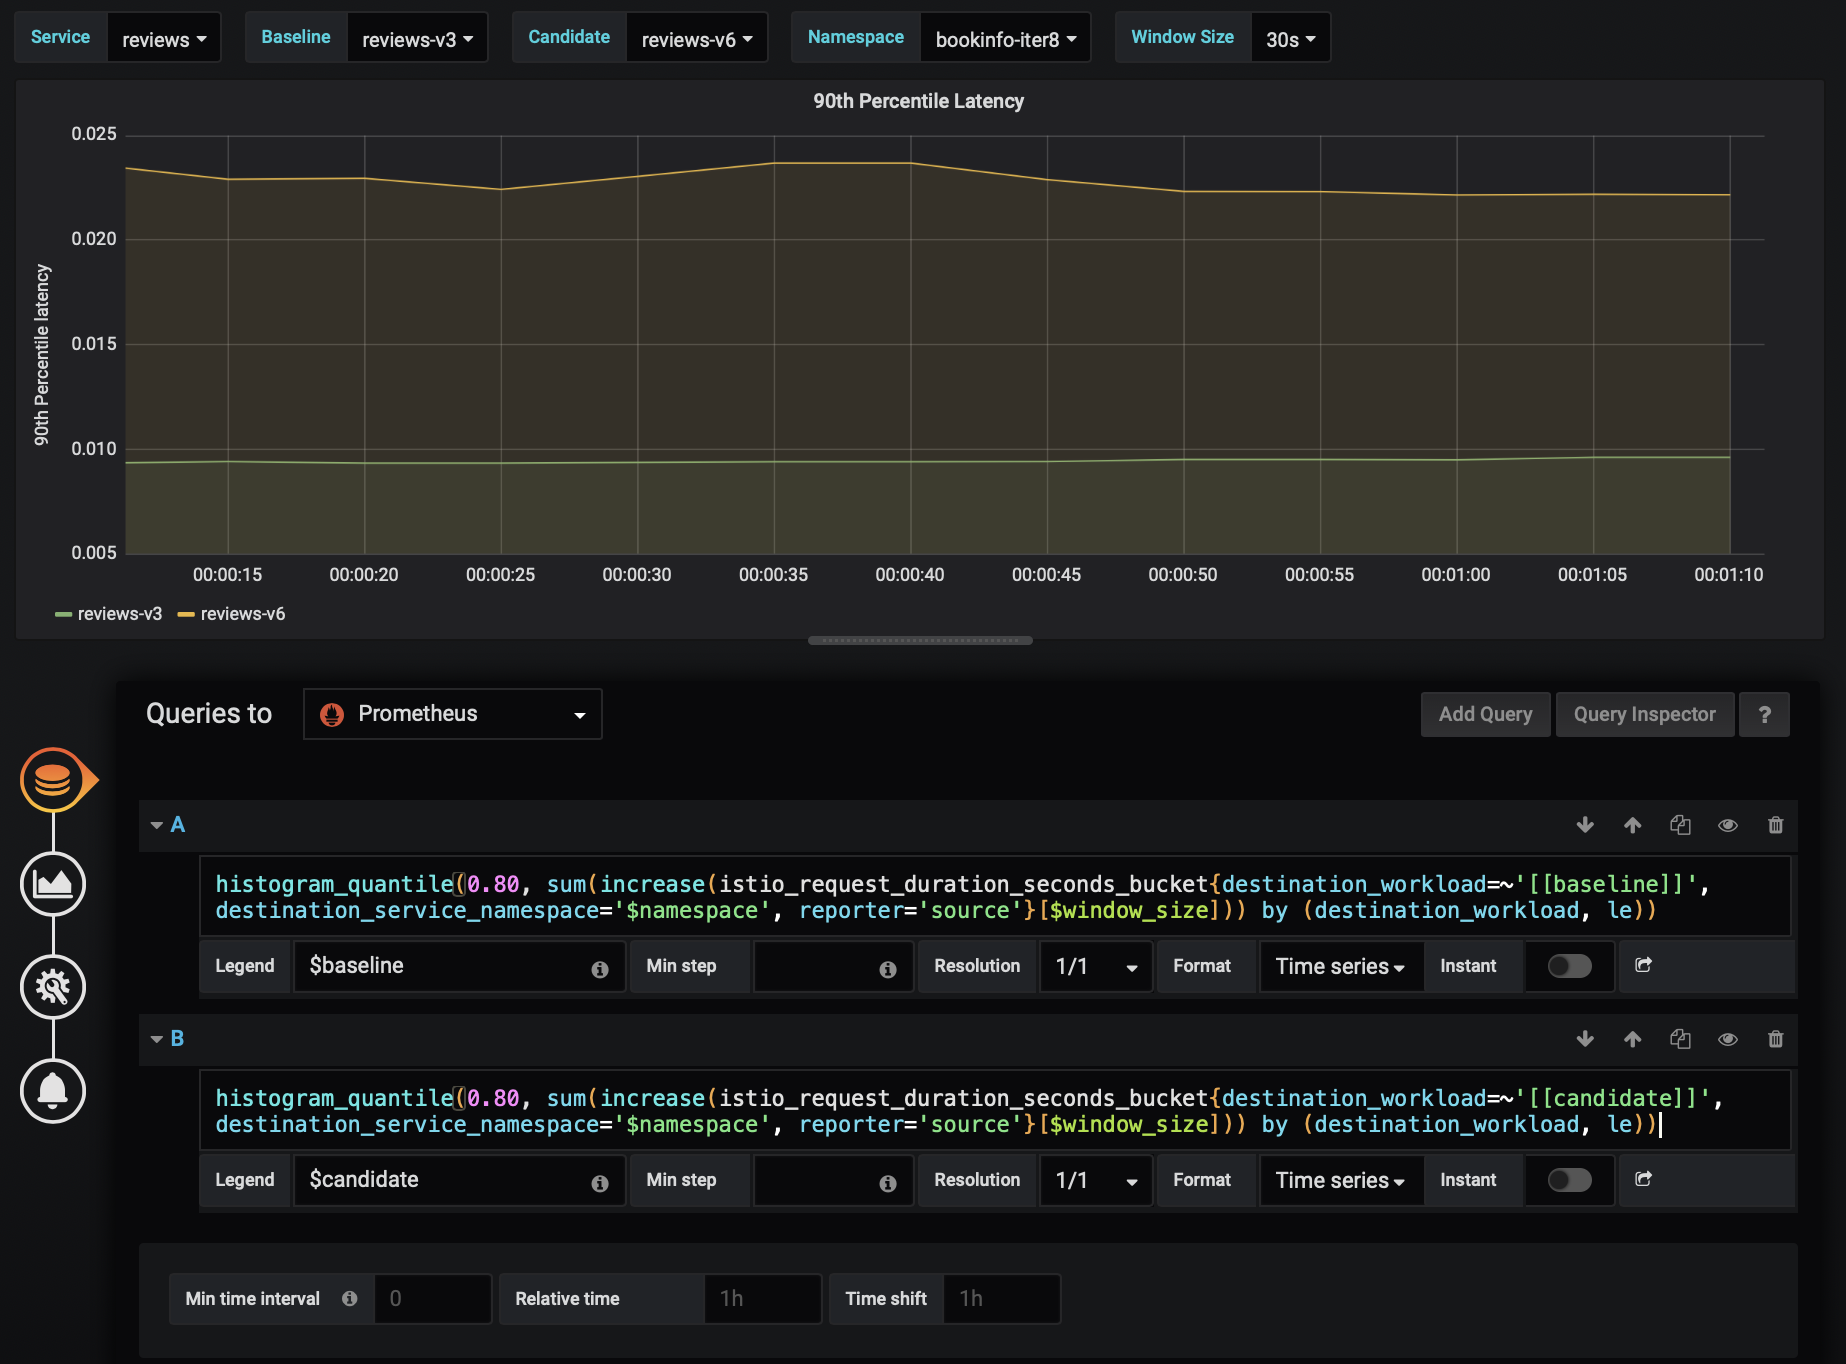
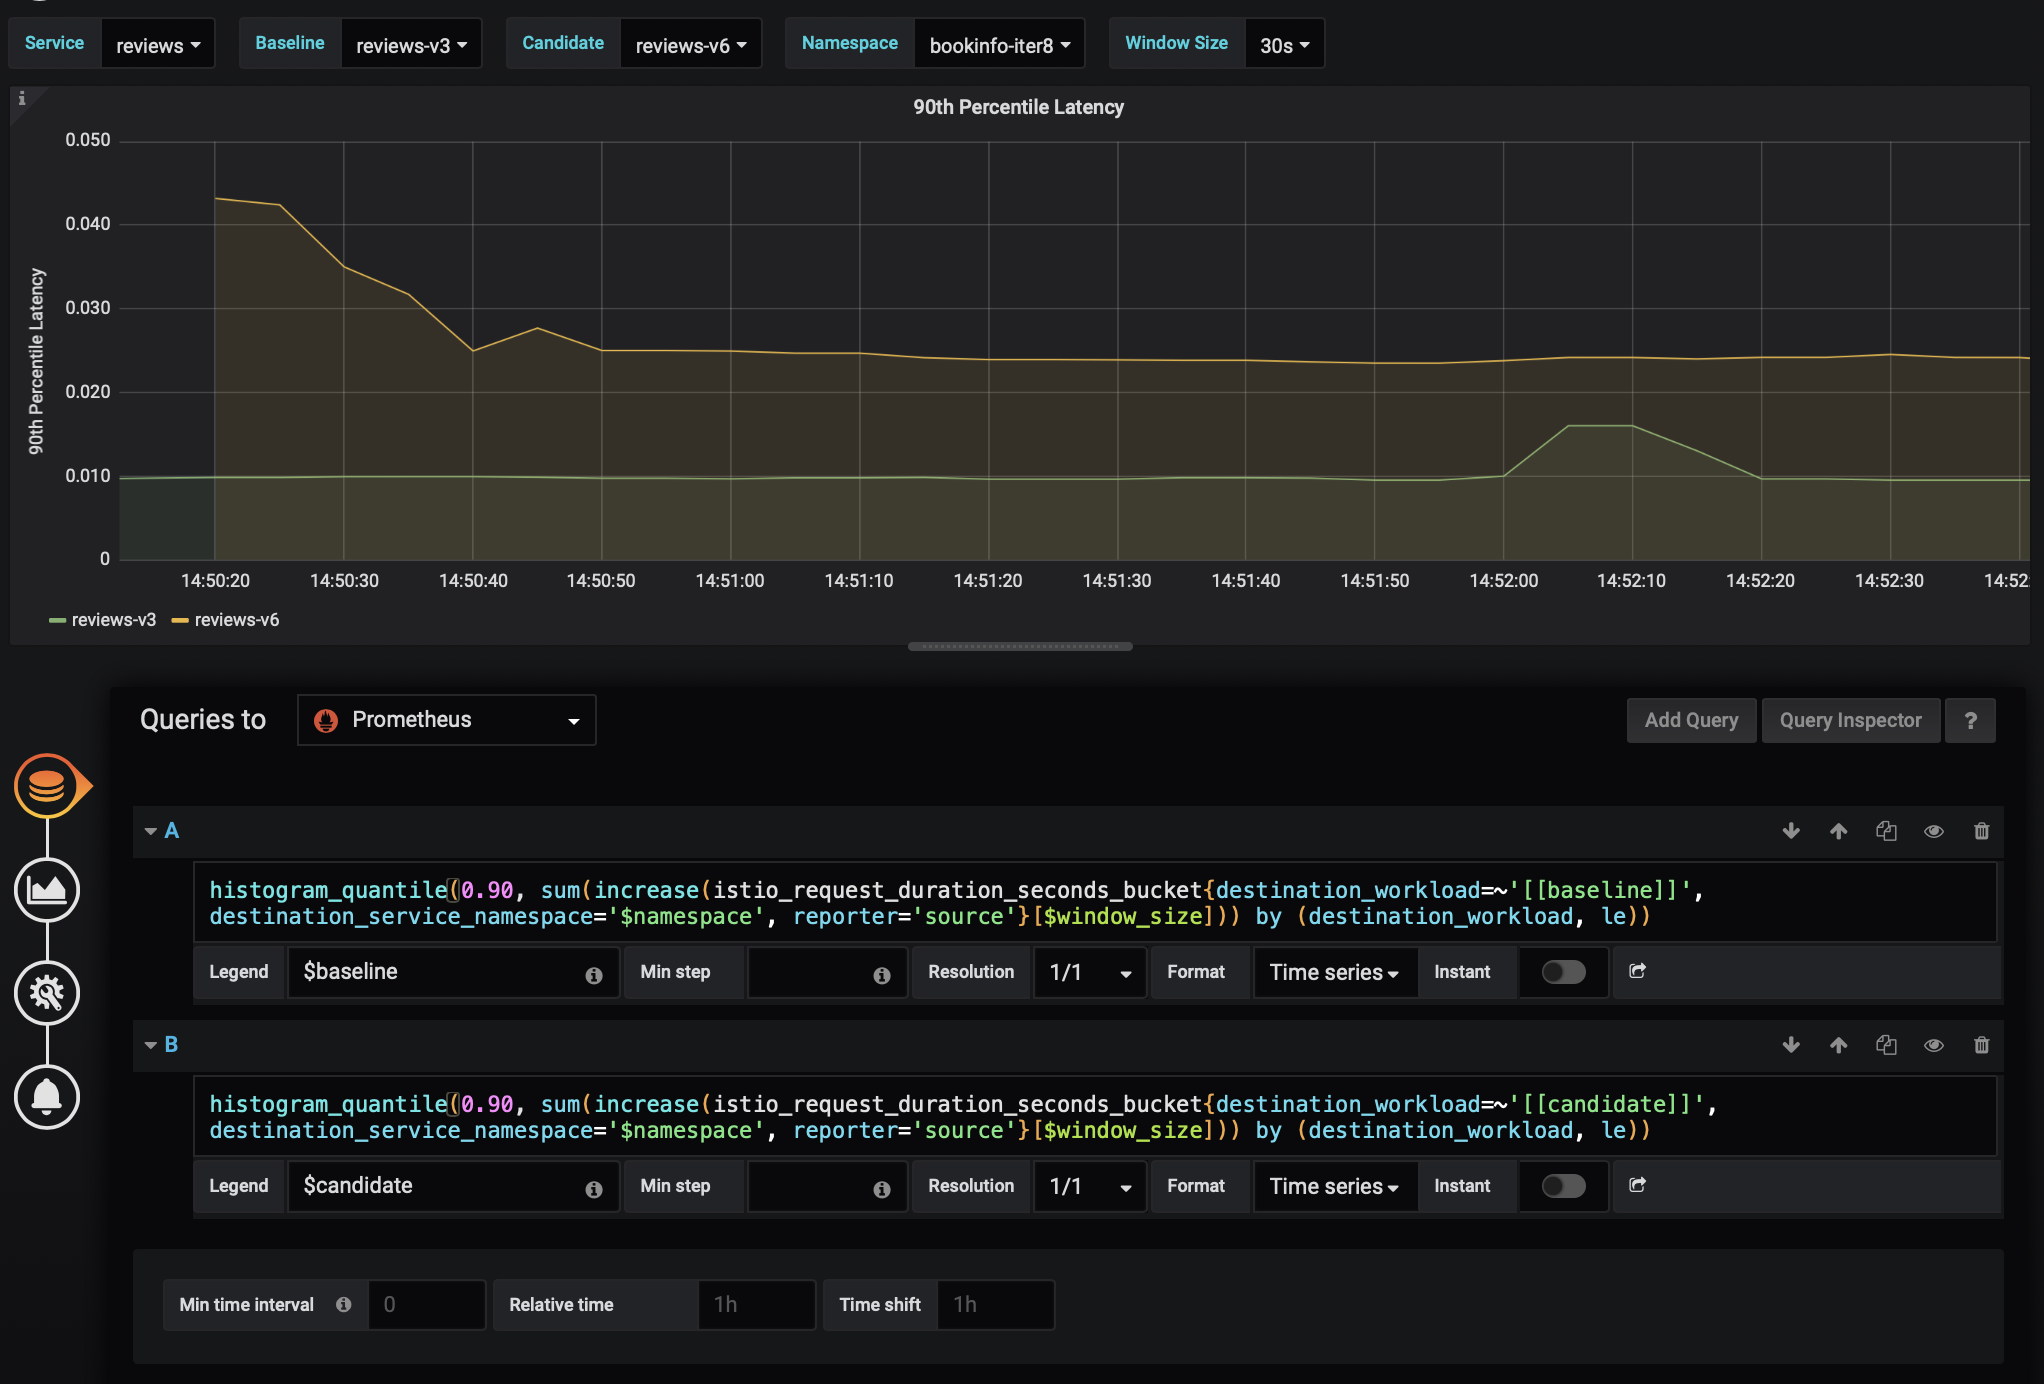
Pushed istio-v6 tagged image, made changes accordingly

diff --git a/doc_files/iter8_bookinfo_istio.md b/doc_files/iter8_bookinfo_istio.md
@@ -464,9 +464,19 @@ To create the above `Experiment` object, run the following command:
 kubectl apply -n bookinfo-iter8 -f iter8-controller/doc/tutorials/istio/bookinfo/canary_reviews-v3_to_reviews-v6.yaml
 ```
 
+As usual, iter8 is waiting for the candidate version to be deployed:
+```bash
+$ kubectl get experiments -n bookinfo-iter8
+NAME                 PHASE       STATUS                                             BASELINE     PERCENTAGE   CANDIDATE    PERCENTAGE
+reviews-v3-rollout   Succeeded   AllSuccessCriteriaMet, Traffic: AllToCandidate     reviews-v2   0            reviews-v3   100
+reviews-v4-rollout   Failed      NotAllSuccessCriteriaMet, Traffic: AllToBaseline   reviews-v3   100          reviews-v4   0
+reviews-v5-rollout   Failed      Aborted, Traffic: AllToBaseline.                   reviews-v3   100          reviews-v5   0
+reviews-v6-rollout   Pause       MissingCandidateDeployment                         reviews-v3   100          reviews-v6   0
+```
+
 ### 2. Deploy _reviews-v6_ and start the rollout
 
-As you already know, as soon as we deploy the candidate version, _iter8-controller_ will start the rollout. This time, the candidate version (_reviews-v6_) is the same service as the one used in the previous iteration except that a different metric is measured during the rollout test. The service still has a bug that causes it to return HTTP errors to its callers like last time; However, here we are measuring the service's 90th percentile latency which behaves normally. As a result, _iter8_ will roll forward to the candidate version based on the success criterion on the newly extended metric defined above.
+As soon as we deploy the candidate version, _iter8-controller_ will start the rollout. This time, the candidate version (_reviews-v6_) is the similar to the earlier _reviews-v3_ which behaved normally. As a result, _iter8_ will roll forward to the candidate version based on the success criterion on the newly extended metric defined above.
 
 To deploy _reviews-v6_, run the following command:
 
